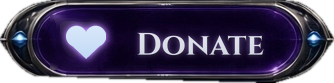
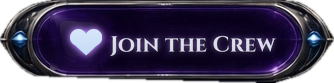
Join the Crew instead of Donate: the nav button, the page title, an invitation above the backers; a stream overlay with a goal's bar, a callout for each new payment and the crew names scrolling

Changed region(s): [[0.1796, 0.241, 0.8383, 0.747]]

diff --git a/overlay/funding.html b/overlay/funding.html
@@ -1,0 +1,150 @@
+<!doctype html>
+<!--
+  Stream overlay: a funding goal's bar, for an OBS browser source (transparent background).
+    https://siriusreborn.com/overlay/funding.html            the first goal
+    ?goal=2                                                  the second goal
+    ?ticker=0                                                without the crew names scrolling below
+  Reads the funding worker (content/settings.json funding.api) every 15 s. A new payment fills the bar
+  and shows "+$5 · name" for a few seconds.
+-->
+<html lang="en">
+<head>
+<meta charset="utf-8">
+<title>Funding Bar</title>
+<link rel="preconnect" href="https://fonts.googleapis.com">
+<link rel="preconnect" href="https://fonts.gstatic.com" crossorigin>
+<link href="https://fonts.googleapis.com/css2?family=Barlow:wght@500;600&family=Cinzel:wght@600;700&display=swap" rel="stylesheet">
+<style>
+  :root {
+    --ink: #eef3fa; --ink-2: #b8c4d6; --line: #3a5680; --glass: #050b16d9;
+    --fill-a: #1f7fd6; --fill-b: #39b2ff; --hot: #ffd27a;
+  }
+  html, body { margin: 0; background: transparent; overflow: hidden; }
+  body { font-family: "Barlow", system-ui, sans-serif; color: var(--ink); padding: 30px 10px 10px; }   /* room above for the "+$5" callout */
+  .card {
+    position: relative;
+    padding: 12px 18px 14px;
+    background: var(--glass);
+    border: 1px solid var(--line);
+    border-radius: 10px;
+    box-shadow: 0 0 24px #1b4a8a55, inset 0 0 30px #1b4a8a33;
+  }
+  .card[hidden] { display: none; }
+  .head { display: flex; align-items: baseline; justify-content: space-between; gap: 16px; margin-bottom: 8px; }
+  .label { font: 700 26px/1.2 "Cinzel", Georgia, serif; letter-spacing: .05em; white-space: nowrap; overflow: hidden; text-overflow: ellipsis; text-shadow: 0 2px 6px #000; }
+  .sum { font-size: 20px; color: var(--ink-2); white-space: nowrap; text-shadow: 0 2px 6px #000; }
+  .sum b { font-size: 28px; font-weight: 600; color: var(--ink); }
+  .bar { position: relative; height: 22px; background: #02060d; border: 1px solid #1d3a5c; border-radius: 12px; overflow: hidden; }
+  .bar i {
+    position: absolute; inset: 0 auto 0 0; width: 0;
+    background: linear-gradient(90deg, var(--fill-a), var(--fill-b));
+    border-radius: 12px;
+    box-shadow: 0 0 14px #39b2ffaa;
+    transition: width 2.4s cubic-bezier(.2, .8, .2, 1);
+  }
+  .bar i::after {   /* a light that runs along the fill */
+    content: ""; position: absolute; inset: 0;
+    background: linear-gradient(90deg, transparent 0%, #ffffff55 50%, transparent 100%);
+    background-size: 40% 100%; background-repeat: no-repeat;
+    animation: sweep 3.5s linear infinite;
+  }
+  @keyframes sweep { from { background-position: -40% 0; } to { background-position: 140% 0; } }
+  .pct { position: absolute; right: 10px; top: 0; font: 600 15px/22px "Barlow", sans-serif; color: var(--ink); text-shadow: 0 1px 3px #000; }
+
+  /* a new payment */
+  .card.hit { animation: hit 1.6s ease-out; }
+  @keyframes hit { 0% { box-shadow: 0 0 60px #ffd27acc, inset 0 0 40px #ffd27a55; border-color: var(--hot); } 100% { box-shadow: 0 0 24px #1b4a8a55, inset 0 0 30px #1b4a8a33; } }
+  .pop {
+    position: absolute; right: 18px; top: -18px;
+    padding: 4px 14px;
+    font: 600 22px/1.3 "Barlow", sans-serif; color: #1a1205;
+    background: linear-gradient(180deg, #ffe3a3, #f2b544);
+    border-radius: 8px;
+    box-shadow: 0 0 20px #ffd27aaa;
+    opacity: 0; transform: translateY(8px) scale(.9);
+    transition: opacity .35s, transform .35s;
+    white-space: nowrap;
+  }
+  .pop.show { opacity: 1; transform: none; }
+
+  .ticker { margin-top: 8px; height: 26px; overflow: hidden; white-space: nowrap; font-size: 18px; color: var(--ink-2); text-shadow: 0 2px 6px #000;
+    -webkit-mask-image: linear-gradient(90deg, transparent, #000 6%, #000 94%, transparent);
+            mask-image: linear-gradient(90deg, transparent, #000 6%, #000 94%, transparent); }
+  .ticker[hidden] { display: none; }
+  .ticker span { display: inline-block; padding-left: 100%; animation: scroll var(--t, 30s) linear infinite; }
+  .ticker b { color: var(--ink); font-weight: 600; }
+  @keyframes scroll { to { transform: translateX(-100%); } }
+</style>
+</head>
+<body>
+  <div class="card" id="card" hidden>
+    <div class="head"><span class="label" id="label"></span><span class="sum" id="sum"></span></div>
+    <div class="bar"><i id="fill"></i><span class="pct" id="pct"></span></div>
+    <div class="pop" id="pop"></div>
+  </div>
+  <div class="ticker" id="ticker" hidden><span id="names"></span></div>
+<script>
+(function () {
+  'use strict';
+  var q = new URLSearchParams(location.search);
+  var goalIndex = Math.max(1, parseInt(q.get('goal') || '1', 10)) - 1;
+  var showTicker = q.get('ticker') !== '0';
+  var POLL_MS = 15000;
+  var $ = function (id) { return document.getElementById(id); };
+  var api = null, last = null, popTimer;
+
+  function money(v, cur) {
+    try { return new Intl.NumberFormat('en', { style: 'currency', currency: cur, minimumFractionDigits: v % 1 ? 2 : 0 }).format(v); }
+    catch (e) { return v + ' ' + cur; }
+  }
+
+  function render(f) {
+    var g = f.goals[goalIndex];
+    $('card').hidden = !g;
+    if (g) {
+      var pct = Math.min(100, 100 * g.raised / g.target);
+      $('label').textContent = g.label;
+      $('sum').innerHTML = '<b>' + money(g.raised, g.currency) + '</b> / ' + money(g.target, g.currency) + (g.monthly ? ' this month' : '');
+      $('pct').textContent = Math.round(100 * g.raised / g.target) + '%';
+      $('fill').style.width = pct + '%';
+      // a new payment: the total rose since the last poll (not on the first load)
+      if (last && last.goal && g.raised > last.goal.raised) {
+        var who = f.backers[0] ? f.backers[0].name : '';
+        $('pop').textContent = '+' + money(+(g.raised - last.goal.raised).toFixed(2), g.currency) + (who ? ' · ' + who : '');
+        $('pop').classList.add('show');
+        $('card').classList.remove('hit'); void $('card').offsetWidth; $('card').classList.add('hit');
+        clearTimeout(popTimer);
+        popTimer = setTimeout(function () { $('pop').classList.remove('show'); }, 8000);
+      }
+    }
+    var names = f.backers.map(function (b) { return b.name; });
+    $('ticker').hidden = !showTicker || !names.length;
+    var key = names.join('\u0001');
+    if (showTicker && (!last || last.names !== key)) {
+      var el = $('names');
+      el.textContent = '';
+      el.appendChild(document.createTextNode('The Crew:  '));
+      names.forEach(function (n, i) {
+        var b = document.createElement('b'); b.textContent = n; el.appendChild(b);
+        if (i < names.length - 1) el.appendChild(document.createTextNode('   ✦   '));
+      });
+      el.style.setProperty('--t', Math.max(20, names.join('').length * 0.6 + 15) + 's');
+    }
+    last = { goal: g, names: key };
+  }
+
+  function poll() {
+    fetch(api + '/funding', { cache: 'no-store' })
+      .then(function (r) { if (!r.ok) throw new Error('funding: HTTP ' + r.status); return r.json(); })
+      .then(render).catch(function (e) { console.error(e); })
+      .then(function () { setTimeout(poll, POLL_MS); });
+  }
+
+  fetch('../content/settings.json', { cache: 'no-store' }).then(function (r) { return r.json(); }).then(function (s) {
+    api = String((s.funding && s.funding.api) || '').replace(/\/+$/, '');
+    if (api) poll();
+  });
+})();
+</script>
+</body>
+</html>

diff --git a/index.html b/index.html
@@ -54,7 +54,7 @@
         <a class="nav-btn nav-download" href="#/download" data-route="download"><img src="assets/ui/nav-download.png" alt="Download"></a>
         <a class="nav-btn nav-home" href="#/" data-route="home"><img src="assets/ui/nav-home.png" alt="Home"></a>
         <a class="nav-btn nav-roadmap" href="#/roadmap" data-route="roadmap"><img src="assets/ui/nav-roadmap.png" alt="Roadmap"></a>
-        <a class="nav-btn nav-donate" href="#/donate" data-route="donate"><img src="assets/ui/nav-donate.png" alt="Donate"></a>
+        <a class="nav-btn nav-donate" href="#/donate" data-route="donate"><img src="assets/ui/nav-donate.png" alt="Join the Crew"></a>
         <a class="nav-btn nav-gallery" href="#/gallery" data-route="gallery"><img src="assets/ui/nav-gallery.png" alt="Gallery"></a>
         <a class="nav-btn nav-about" href="#/about" data-route="about"><img src="assets/ui/nav-about.png" alt="About"></a>
         <a class="nav-btn nav-how" href="#/how" data-route="how"><img src="assets/ui/nav-how.png" alt="How it's done"></a>

diff --git a/js/site.js b/js/site.js
@@ -105,11 +105,13 @@
   function fundingHtml(f) {
     var d = function (iso) { var p = SR.dateParts(iso); return p.month + ' ' + p.day; };
     return '<section class="funding">' + f.goals.map(goalHtml).join('') +
-      '<div class="fund-backers"><h3>Keeping the lights on</h3>' +
+      '<div class="fund-backers"><h3>The Crew</h3>' +
+      '<p class="fund-invite">Join the crew and your name goes up here, next to everyone keeping Sirius online.' +
+        (f.backers.length ? '' : ' Nobody here yet: be the first.') + '</p>' +
       (f.backers.length ? '<ol>' + f.backers.map(function (b) {
         var via = SOURCES[b.source];
         return '<li><b>' + esc(b.name) + '</b><small>' + (via ? esc(via) + ' \u00b7 ' : '') + esc(d(b.at)) + '</small></li>';
-      }).join('') + '</ol>' : '<p class="fund-none">No backers yet. The first name here could be yours.</p>') +
+      }).join('') + '</ol>' : '') +
       '</div></section>';
   }
 

diff --git a/css/site.css b/css/site.css
@@ -781,7 +781,7 @@ img { display: block; }
 .fund-backers li { display: flex; flex-direction: column; min-width: 0; }
 .fund-backers li b { font-weight: 600; color: #dfe6f1; overflow: hidden; text-overflow: ellipsis; white-space: nowrap; }
 .fund-backers li small { font-size: 13px; letter-spacing: .06em; color: var(--ink-3); }
-.fund-none { margin: 8px 0 0; color: var(--ink-3); }
+.fund-invite { margin: 6px 0 0; color: var(--ink-2); }
 
 /* One line above the timeline. */
 .fund-strip {

diff --git a/tools/make_nav_buttons.py b/tools/make_nav_buttons.py
@@ -1,5 +1,5 @@
 #!/usr/bin/env python3
-"""Nav buttons the mockup does not have (Donate, How?, Roadmap), made from the cut ones.
+"""Nav buttons the mockup does not have (Join the Crew, How?, Roadmap), made from the cut ones.
 
 Takes a button from tools/extract_assets.py, paints its icon and label out of
 the pill, optionally turns the pill to another hue, and draws a new icon and a
@@ -154,7 +154,7 @@ def down(m):
     return m.resize((m.width // SS, m.height // SS), Image.LANCZOS)
 
 
-def make(base, out, text, icon, glow, hue=None, sat=1.0):
+def make(base, out, text, icon, glow, hue=None, sat=1.0, px=31, label_x=LABEL_X):
     btn = erase(Image.open(UI / base).convert("RGBA"))
     if hue is not None:
         btn = rehue(btn, hue, sat)
@@ -167,10 +167,10 @@ def make(base, out, text, icon, glow, hue=None, sat=1.0):
     art.alpha_composite(glow_layer(full, glow, 4, 1.4))
     art.alpha_composite(paint(full, (236, 244, 255), (176, 206, 240)))
     # label: drop shadow, soft glow, silver gradient
-    lm, cap = label(text, 31)
+    lm, cap = label(text, px)
     lm = down(lm)
     lab = Image.new("L", btn.size, 0)
-    lab.paste(lm, (LABEL_X - 4, round(LABEL_CY - 4 - cap / 2)))
+    lab.paste(lm, (label_x - 4, round(LABEL_CY - 4 - cap / 2)))
     shadow = Image.new("RGBA", btn.size, (0, 0, 0, 0))
     shadow.putalpha(ImageChops.offset(lab, 1, 2).filter(ImageFilter.GaussianBlur(1.2)).point(lambda v: v * 0.8))
     art.alpha_composite(shadow)
@@ -182,6 +182,7 @@ def make(base, out, text, icon, glow, hue=None, sat=1.0):
 
 
 if __name__ == "__main__":
-    make("nav-support.png", "nav-donate.png", "Donate", heart(40), (190, 140, 255))
+    # a longer label: smaller, and closer to a smaller heart
+    make("nav-support.png", "nav-donate.png", "Join the Crew", heart(32), (190, 140, 255), px=22, label_x=110)
     make("nav-home.png", "nav-how.png", "How?", cog(44), (110, 240, 170), hue=145, sat=0.7)
     make("nav-home.png", "nav-roadmap.png", "Roadmap", route(44), (255, 110, 130), hue=350, sat=0.85)

diff --git a/README.md b/README.md
@@ -14,14 +14,15 @@ It's a static site (plain HTML/CSS/JS, no build step) that runs on GitHub Pages 
 | `index.html`, `css/site.css`, `js/site.js` | The site. A hash router renders the news timeline, single posts and the four pages inside the main panel. |
 | `js/content.js` | Markdown rendering, date formatting and front matter helpers, shared by the site and the CMS. |
 | `content/news.json` | All news posts: title, date, tag, timeline image, excerpt and the full Markdown body. |
-| `content/pages/*.md` | Donate, Gallery, About, How it's done and Download pages (Markdown with a `title` / `subtitle` header). |
+| `content/pages/*.md` | Join the Crew (`donate.md`), Gallery, About, How it's done and Download pages (Markdown with a `title` / `subtitle` header). |
 | `content/wiki/*.json` | The wiki: ships, systems, stations and weapons (see [The wiki](#the-wiki)). |
 | `content/roadmap.json` | The Roadmap page (`#/roadmap`, also the footer's status ring): the phase under way, its areas and their items, open or done. The game repo's release update writes it from the issues labelled `public`; don't edit it here. |
 | `content/settings.json` | Tagline, build badge, project status ring, Community Hub links, footer text, the funding worker's URL. |
+| `overlay/funding.html` | The stream overlay: a funding goal's bar and the crew names, for an OBS browser source (options at the top of the file). |
 | `funding/` | The funding worker: Ko-fi and Patreon webhooks in, the goals and the last 10 backers out (see [funding/README.md](funding/README.md)). |
 | `assets/ui/` | Every button, frame and panel, cropped straight from the mockup, plus the character cutouts and the nebula. |
 | `tools/extract_assets.py` | Crops the buttons, frames and panels from `tools/mockup.png`, and turns the mockup's Forums hub badge and caption into YouTube (caption set in Barlow, `tools/fonts/`). |
-| `tools/make_nav_buttons.py` | Makes the Donate, How? and Roadmap buttons, which the mockup does not have: takes a cut button, paints its icon and label out, recolours it for How?, and draws a new icon and a Cinzel label (`tools/fonts/`). |
+| `tools/make_nav_buttons.py` | Makes the Join the Crew, How? and Roadmap buttons, which the mockup does not have: takes a cut button, paints its icon and label out, recolours it for How?, and draws a new icon and a Cinzel label (`tools/fonts/`). |
 | `tools/make_share_image.py` | Makes `assets/share.jpg`, the link preview image (Discord, X and others read it through the `og:` and `twitter:` tags in `index.html`): an in-game shot with the title over it. |
 | `tools/build_layers.py` | Cuts the characters (Trent from `tools/trent.png`, Juni from `tools/juni.jpg`) and the title (from the mockup) out of their backgrounds with rembg, grades the characters to match the nebula, and builds the nebula backdrop. |
 | `admin/` | The CMS. |
@@ -44,7 +45,7 @@ The CMS is a static page that commits to this repository through the GitHub API,
 You can then:
 
 - **News**: write, edit, unpublish (draft) and delete posts. Each post has a timeline image (shown in the round frame), an excerpt for the timeline and a full Markdown body with a live preview. You can upload images and embed YouTube videos.
-- **Pages**: edit Donate, Gallery, About, How it's done and Download. Put several images on one line in the Gallery to get a grid. Below the Gallery's text the site adds every shot of the wiki's ships and stations by itself, so each wiki update adds its new shots there.
+- **Pages**: edit Join the Crew, Gallery, About, How it's done and Download. Put several images on one line in the Gallery to get a grid. Below the Gallery's text the site adds every shot of the wiki's ships and stations by itself, so each wiki update adds its new shots there.
 - **Wiki**: add our own summary and text to a wiki entry, or hide it (see below).
 - **Funding**: the funding goals (text, target, monthly or since a date), payments added by hand, and hiding or voiding a payment. It needs the funding worker's admin token (funding/README.md).
 - **Settings**: tagline, build badge, project status percentage and text, Community Hub links (an empty link disables its button; `#/wiki` opens the site's wiki) and footer text.

diff --git a/funding/README.md b/funding/README.md
@@ -1,7 +1,7 @@
 # Funding
 
 A Cloudflare Worker with a D1 database. Ko-fi and Patreon tell it about each payment by webhook. It serves the goals and
-the last 10 backers at `GET /funding`, which the site's Donate page and the bar above the news timeline read. The CMS's
+the last 10 backers at `GET /funding`, which the site's Join the Crew page (`#/donate`) and the bar above the news timeline read. The CMS's
 Funding tab edits the goals, adds payments by hand (stream tips, Super Chats, transfers) and hides or voids a payment.
 The endpoints are listed at the top of `src/index.js`.
 

diff --git a/content/pages/donate.md b/content/pages/donate.md
@@ -1,5 +1,5 @@
 ---
-title: Donate
+title: Join the Crew
 subtitle: Support the Development of SR!
 ---
 
